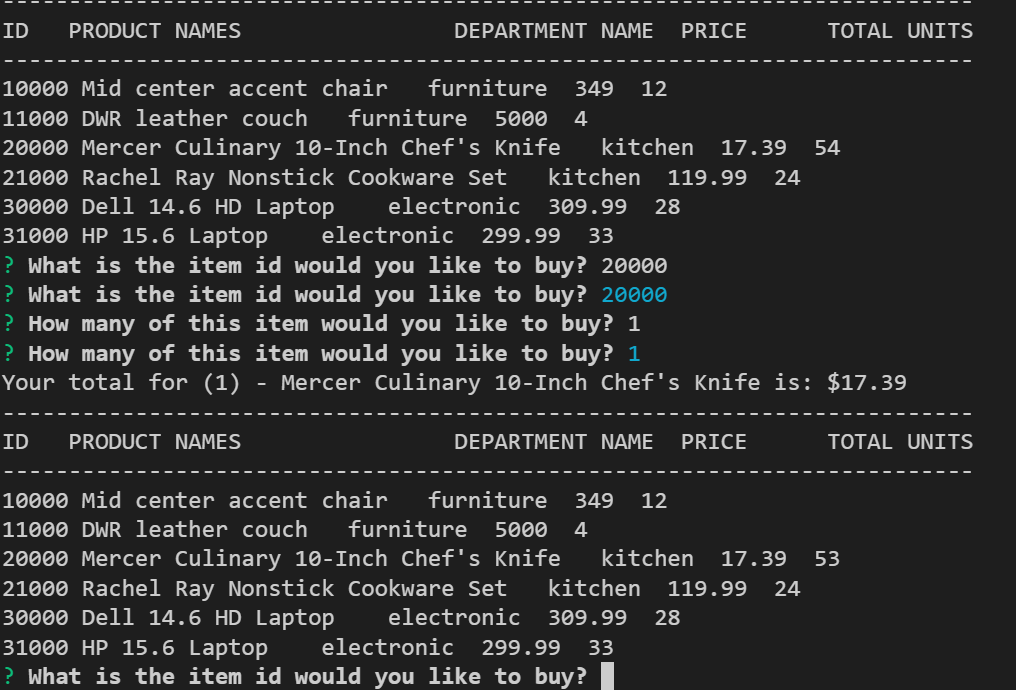
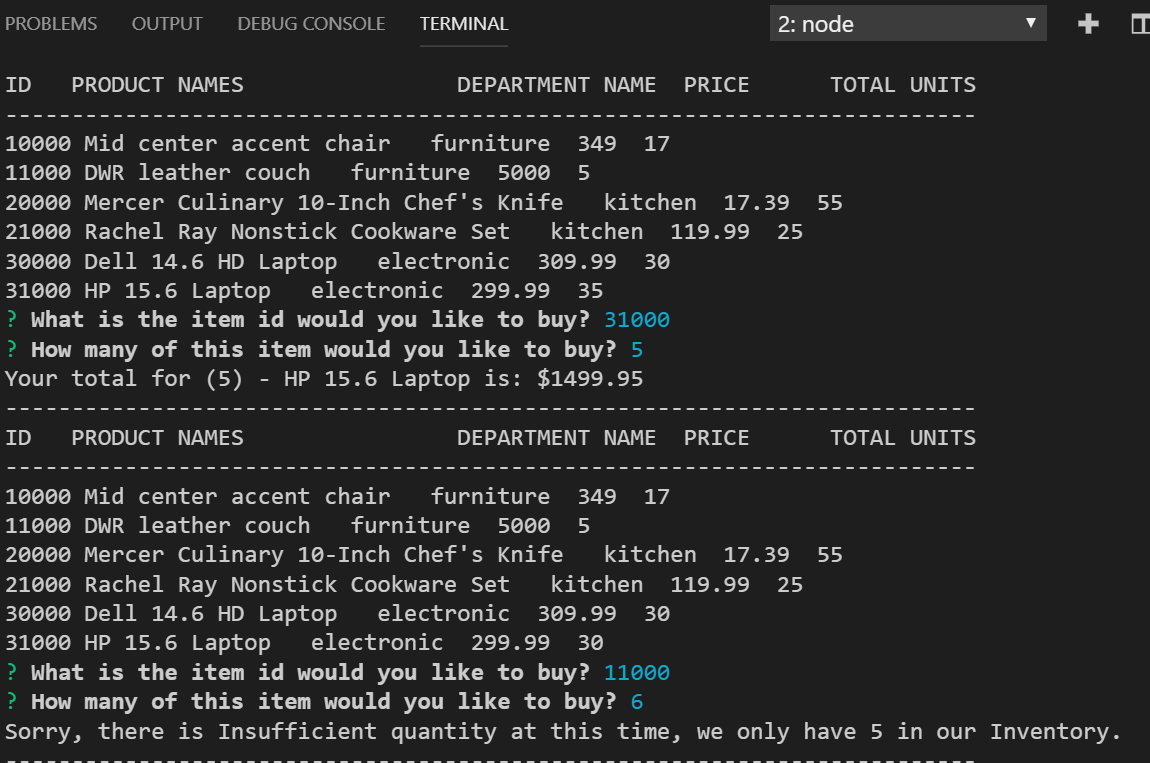
updated schema and insufficient product units

diff --git a/bamazonCustomer.js b/bamazonCustomer.js
@@ -56,7 +56,7 @@ function startBuying() {
           }
         }
         var selectedProduct = res[idx].product_name;
-        if (selectedQuantity < res[idx].stock_quantity) {
+        if (selectedQuantity <= res[idx].stock_quantity) {
           console.log("Your total for " + "(" + answer.quantity + ")" + " - " + res[idx].product_name + " is: $" + res[idx].price.toFixed(2) * selectedQuantity);
           connection.query("UPDATE products SET ? WHERE ?", [{
             stock_quantity: res[idx].stock_quantity - selectedQuantity
@@ -67,7 +67,7 @@ function startBuying() {
           });
         }
         else {
-          console.log("Sorry, We do not have enough inventory at this time, we only have " + res[chosenId].StockQuantity + " in our Inventory.");
+          console.log("Sorry, there is Insufficient quantity at this time, we only have " + res[idx].stock_quantity + " in our Inventory.");
           startBuying();
         }
       })

diff --git a/README.md b/README.md
@@ -1,0 +1,5 @@
+
+Bamazon application is an Amazon-like storefront.  The app will take in orders from customers and deplete stock from the store's inventory.
+
+Bamazon first showns a list of products in the store for sale, then it prompts users to enter the product they wish to buy, and then prompts the second messge for users to enter the total units they want to buy. Once the customer has placed the order, your application check if the  store has enough of the product to meet the customer's request. If not, the app should log a phrase like `Insufficient quantity!`, and then prevent the order from going through.  However, if your store _does_ have enough of the product, the app will fulfill the customer's order and shows the purchase receipt to the customers.
+
